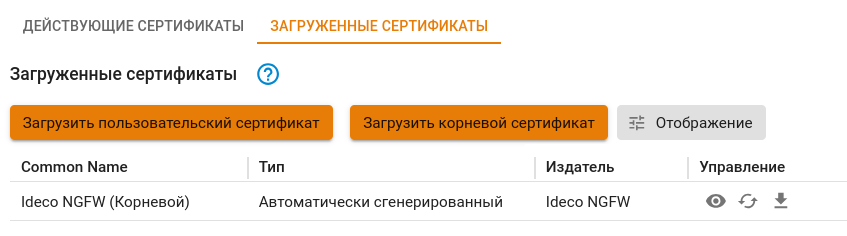
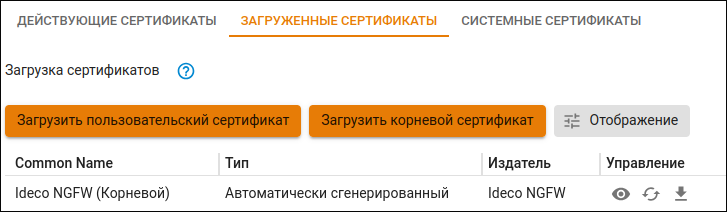
ICS-44886 УТМ. ЦК. Добавить описание вкладки Системные сертификаты

diff --git a/settings-cc/services.md b/settings-cc/services.md
@@ -61,3 +61,9 @@
 {% hint style="success" %}
 На Ideco Center можно загрузить самоподписанные сертификаты, созданные в [PowerShell](/settings/services/certificates/creating-ssl-sert-powershell.md) или [OpenSSL](/settings/services/certificates/creating-openssl-cert.md).
 {% endhint %}
+
+### Системные сертификаты 
+
+Раздел позволяет загружать свои сертификаты в хранилище доверенных сертификатов OC Fedora на Ideco Center. Подробнее о системных сертификатах - по [ссылке](https://docs.fedoraproject.org/en-US/quick-docs/using-shared-system-certificates/). После добавления сертификата в таблицу **Системные сертификаты** Ideco Center будет доверять загруженному сертификату и всем сертификатам, подписанным загруженным сертификатом:
+
+![](/.gitbook/assets/cc-certs3.png)

diff --git a/settings/reports/authorization-log.md b/settings/reports/authorization-log.md
@@ -26,7 +26,7 @@ description: >-
 
 ![](/.gitbook/assets/auth-log2.png)
 
-**Особенность работы журнала авторизации:**
+**Особенности работы журнала авторизации:**
 
 * Время окончания открытой сессии пользователя меняется каждые 5 минут, поскольку происходит запись текущего времени в поле **Окончание сессии**. Если запрос на поиск будет отправлен до момента синхронизации буфера, то время окончания будет одно, в ином случае - другое.
 
